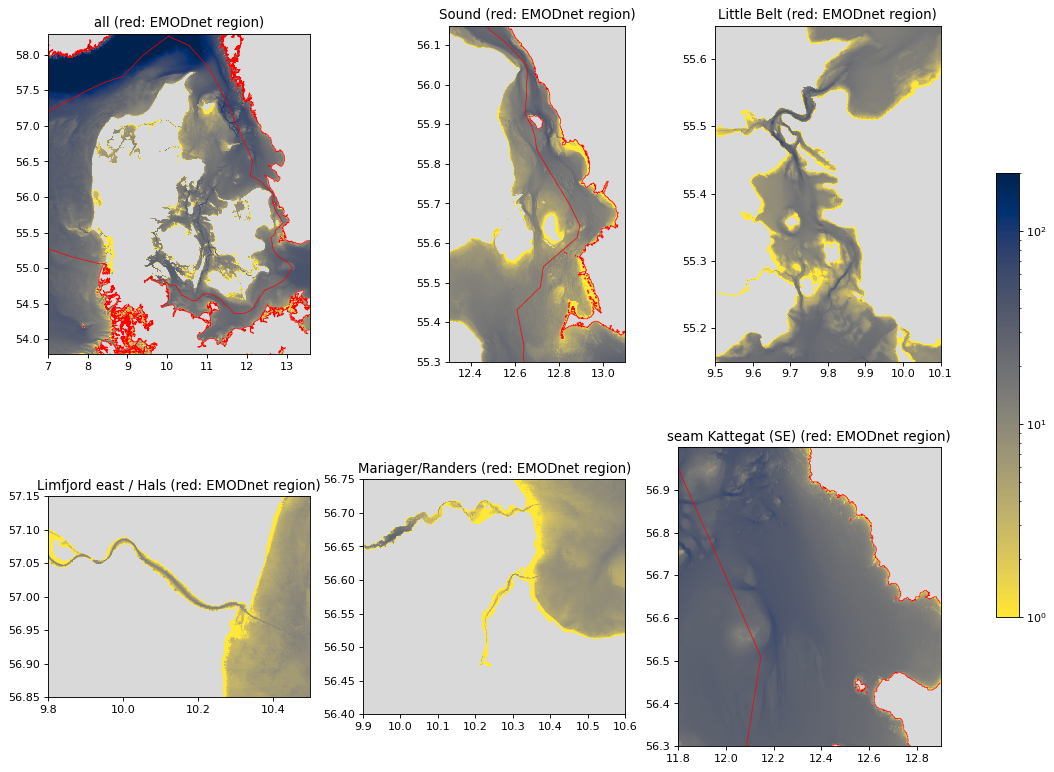
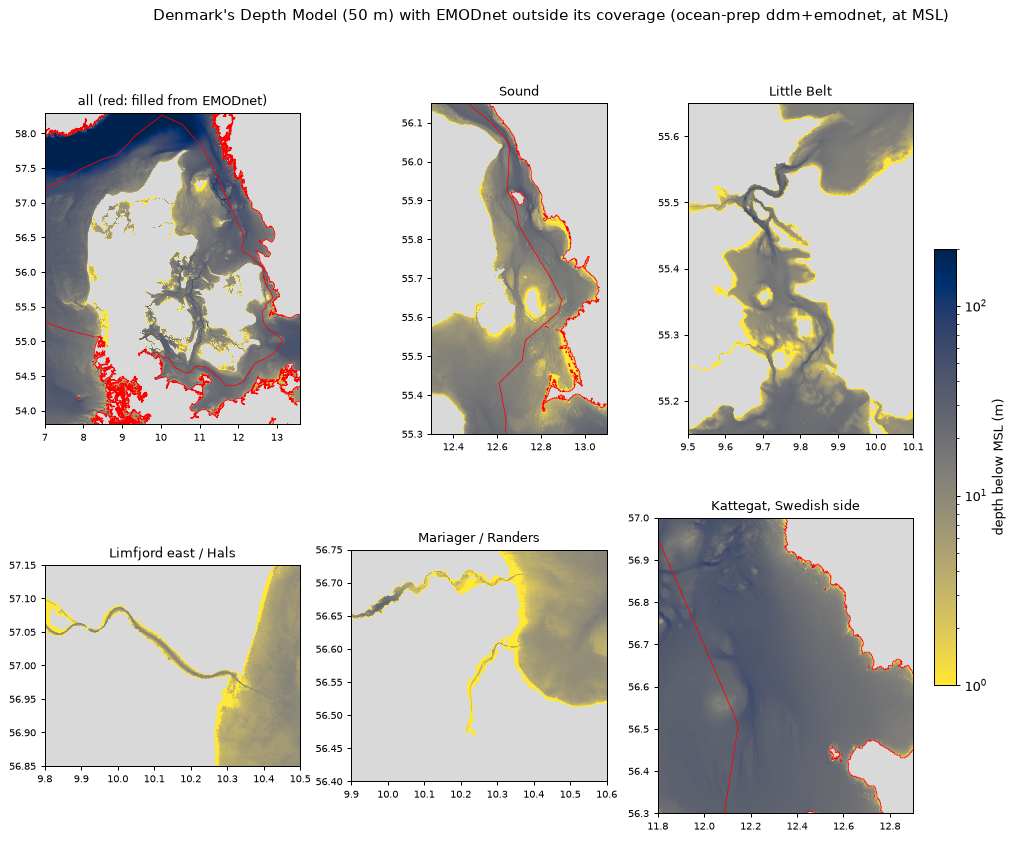
DKm at MSL: the DDM + EMODnet figure from ocean-prep's source, the level overviews, the nested M2 map from the 8-day run (rms 0.129 m); text

diff --git a/dkm.html b/dkm.html
@@ -208,6 +208,9 @@ the east, beyond Bornholm, would then only take a larger root.</p>
 1.09. The largest difference at a gauge is 4 mm, at Hvide Sande next to the left-out Ringkøbing Fjord. The variant
 ran on 28 cores instead of 63. Its Kattegat, on 2 cores, waited a third of the time for the levels around it, so it
 needs a few more.</p>
+<p>Since 20 November every level's depth is relative to mean sea level (the EMODnet part of the source was below the
+lowest astronomical tide before; the DDM was already at MSL). The figure shows the eight-day run with those depths:
+rms 0.129 m at the 89 gauges, median ratio 1.06. The run with the earlier depths gave the same rms.</p>
 <figure class="fig wide"><button class="plate" type="button" data-full="fig/dkm/dkm_nested_m2.png" aria-label="Open M2 in the nested variant full size"><img src="fig/dkm/dkm_nested_m2.png" alt="M2 in the nested variant" loading="lazy"></button><figcaption><strong>M2 in the nested variant</strong><p>M2 amplitude of every level over the cells it computes (finest on top), TPXO9 at the open boundaries, with the GESLA gauges (dots: observed amplitude). Right: model against gauges.</p></figcaption></figure>
 </section>
 <section id="fjords" class="chapter"><header class="chap"><span class="eyebrow">Fjords</span><h2 id="the-children">The children</h2></header>
@@ -227,7 +230,7 @@ needs a few more.</p>
 </section>
 <section id="bathymetry" class="chapter"><header class="chap"><span class="eyebrow">Bathymetry</span><h2 id="denmark-s-depth-model-completed-with-emodnet">Denmark's Depth Model, completed with EMODnet</h2></header>
 <p>Denmark's Depth Model (DDM, version 2.0, Geodatastyrelsen) is a 50 m grid of the Danish waters. It covers the
-Danish EEZ only, so Swedish, German and Norwegian waters are filled from EMODnet: the DDM is averaged onto a 45 m
+Danish EEZ only, so Swedish, German and Norwegian waters are filled from EMODnet: the DDM is averaged onto a 50 m
 lon/lat grid, and EMODnet is used only in water outside the DDM's coverage. Inside it, a cell without a DDM value
 stays land. Every level takes its block means from this one product.</p>
 <figure class="fig wide"><button class="plate" type="button" data-full="fig/dkm/ddm_emodnet.png" aria-label="Open DDM and EMODnet full size"><img src="fig/dkm/ddm_emodnet.png" alt="DDM and EMODnet" loading="lazy"></button><figcaption><strong>DDM and EMODnet</strong><p>Overview and five zooms (the Sound, the Little Belt, the eastern Limfjord, Mariager and Randers, the Kattegat's Swedish side). Red line: the area filled from EMODnet; the seam at the EEZ border is smooth.</p></figcaption></figure>
